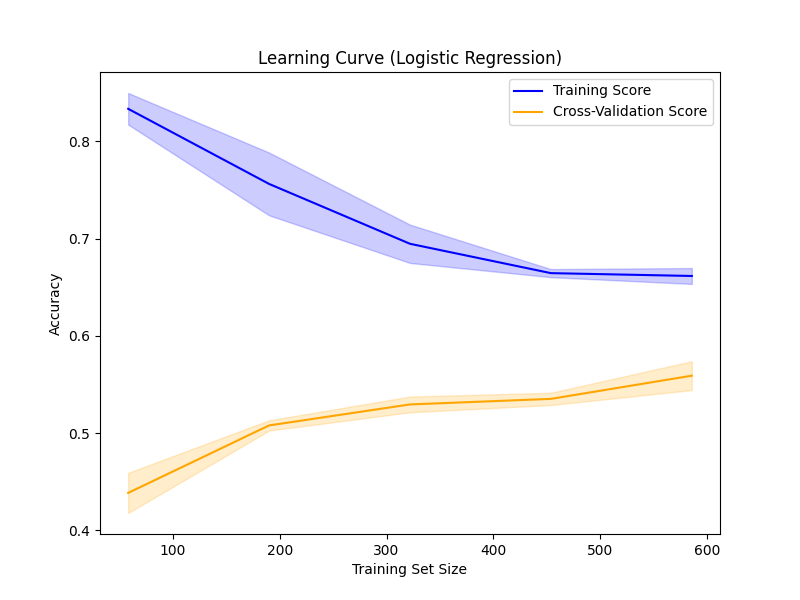
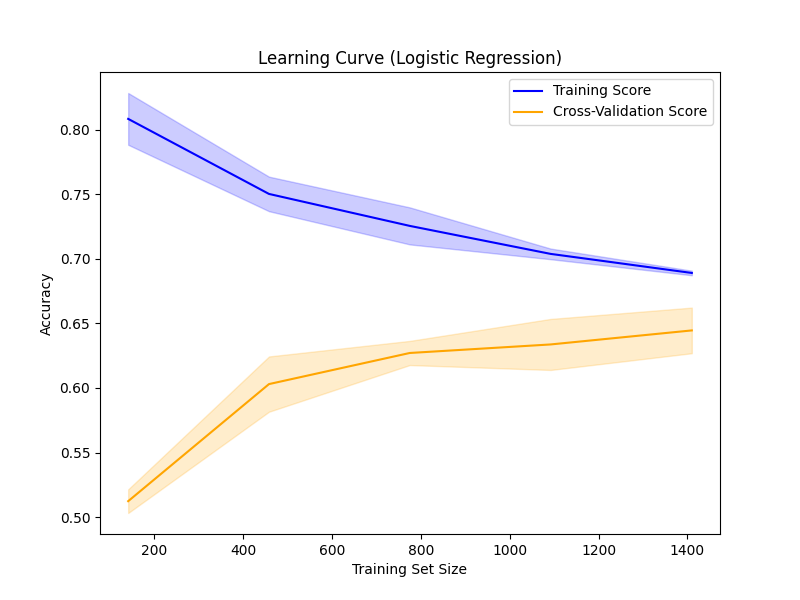
Used smote for data balansing

diff --git a/main.py b/main.py
@@ -14,6 +14,8 @@ from xgboost import XGBClassifier
 from sklearn.svm import SVC
 from sklearn.neural_network import MLPClassifier
 from math import pi
+from imblearn.over_sampling import SMOTE
+from sklearn.neighbors import KernelDensity
 
 MAIN_FEATURES = ["RAM","Procesorius","WIFI","Atmintis","Akumuliatorius","Operacine sistema","Tinklas","Ekranas","Gamintojas"]
 PROCESEORIAI = [
@@ -372,12 +374,33 @@ for column in numerical_columns:
 linear_model = LinearRegression()
 X = df_processed.drop(columns=["price"])
 y = df_processed["price"]
+y_log = np.log1p(y)
 
-X_train, X_test, y_train, y_test = train_test_split(X, y, test_size=0.2,random_state=42)
+# Estimate density of price distribution
+kde = KernelDensity(bandwidth=50.0).fit(y.values.reshape(-1, 1))
+density = np.exp(kde.score_samples(y.values.reshape(-1, 1)))
 
-linear_model.fit(X_train, y_train)
+# Calculate weights (inverse of density)
+weights = 1.0 / (density + 1e-10)  # Add small constant to avoid division by zero
+weights = weights / np.mean(weights)  # Normalize weights to mean=1
+
+# Create a Series with same index as original data
+weights_series = pd.Series(weights.flatten(), index=df_processed.index)
+
+# Then use the Series for indexing with train/test split
+X_train, X_test, y_train, y_test = train_test_split(X, y, test_size=0.2, random_state=42)
+linear_model.fit(X_train, y_train, sample_weight=weights_series.loc[X_train.index])
 y_pred = linear_model.predict(X_test)
 
+# Train model on transformed data
+X_train, X_test, y_train_log, y_test_log = train_test_split(X, y_log, test_size=0.2, random_state=42)
+linear_model.fit(X_train, y_train_log, sample_weight=weights_series.loc[X_train.index])
+
+# Predict and transform back
+y_pred_log = linear_model.predict(X_test)
+y_pred = np.expm1(y_pred_log)  # inverse of log1p
+
+# Evaluate on original scale
 mse = mean_squared_error(y_test, y_pred)
 r2 = r2_score(y_test, y_pred)
 
@@ -432,10 +455,28 @@ df_processed["price_category"] = pd.cut(df_processed["price"], bins=bins, labels
 df_price = df_processed.filter(["price"], axis=1)
 df_processed.drop(columns=["price"], inplace=True)
 
-X = df_processed.drop(columns=["price_category"])  
-y = df_processed["price_category"]  
+price_tier_distribution = df_processed["price_category"].value_counts()
+print("Original class distribution:")
+print(price_tier_distribution)
+plt.figure(figsize=(10, 6))
+price_tier_distribution.plot(kind='bar')
+plt.title('Price Tier Distribution')
+plt.xlabel('Price Tier')
+plt.ylabel('Count')
+plt.savefig("price_tier_distribution.png")
 
-X_train, X_test, y_train, y_test = train_test_split(X, y, test_size=0.2, random_state=42)
+X = df_processed.drop(columns=["price_category"])  
+y = df_processed["price_category"]
+smote = SMOTE(random_state=42)
+X_balanced, y_balanced = smote.fit_resample(X, y)
+
+print("Class distribution after SMOTE:")
+print(pd.Series(y_balanced).value_counts())
+
+label_encoder = LabelEncoder()
+y_encoded = label_encoder.fit_transform(y_balanced)
+
+X_train, X_test, y_train, y_test = train_test_split(X_balanced, y_encoded, test_size=0.2, random_state=42)
 
 
 grid_search = GridSearchCV(estimator=RandomForestClassifier(random_state=42), param_grid=param_grid, cv=3, scoring='accuracy', n_jobs=-1)
@@ -465,11 +506,6 @@ plt.xlabel("Predicted")
 plt.ylabel("Actual")
 plt.title("Confusion Matrix")
 plt.savefig("Confusion_matrix_RFC.png")
-
-label_encoder = LabelEncoder()
-y_encoded = label_encoder.fit_transform(y)
-
-X_train, X_test, y_train, y_test = train_test_split(X, y_encoded, test_size=0.2, random_state=42)
 
 param_grid = {
     'n_estimators': [50, 100, 200],
@@ -722,12 +758,12 @@ categories = list(metrics_df.index)
 values_logreg = metrics_df['Logistic Regression'].tolist()
 values_svc = metrics_df['SVC'].tolist()
 values_xgb = metrics_df['XGBoost'].tolist()
-values_mlp = metrics_df["MLPClassifier"].tolist()
+# values_mlp = metrics_df["MLPClassifier"].tolist()
 
 values_logreg += values_logreg[:1]
 values_svc += values_svc[:1]
 values_xgb += values_xgb[:1]
-values_mlp += values_mlp[:1]
+# values_mlp += values_mlp[:1]
 categories += categories[:1]  
 
 angles = [n / float(len(categories)) * 2 * pi for n in range(len(categories))]
@@ -740,8 +776,8 @@ ax.plot(angles, values_svc, label='SVC', color='orange')
 ax.fill(angles, values_svc, color='orange', alpha=0.1)
 ax.plot(angles, values_xgb, label='XGBoost', color='green')
 ax.fill(angles, values_xgb, color='green', alpha=0.1)
-ax.plot(angles, values_mlp, label='MLPClassifier', color='red')
-ax.fill(angles, values_mlp, color='red', alpha=0.1)
+# ax.plot(angles, values_mlp, label='MLPClassifier', color='red')
+# ax.fill(angles, values_mlp, color='red', alpha=0.1)
 ax.set_xticks(angles)
 ax.set_xticklabels(categories)
 plt.title('Model Performance Comparison')

diff --git a/README.md b/README.md
@@ -7,7 +7,7 @@ This project develops and evaluates multiple machine learning models to classify
 
 1. **Clone the Repository**
    ```bash
-   git clone https://github.com/yourusername/EComPriceLinearReg.git
+   git clone https://github.com/MatasMartinkus/E-Commerce-Price-classification-regression.git
    cd EComPriceLinearReg
    ```
 
